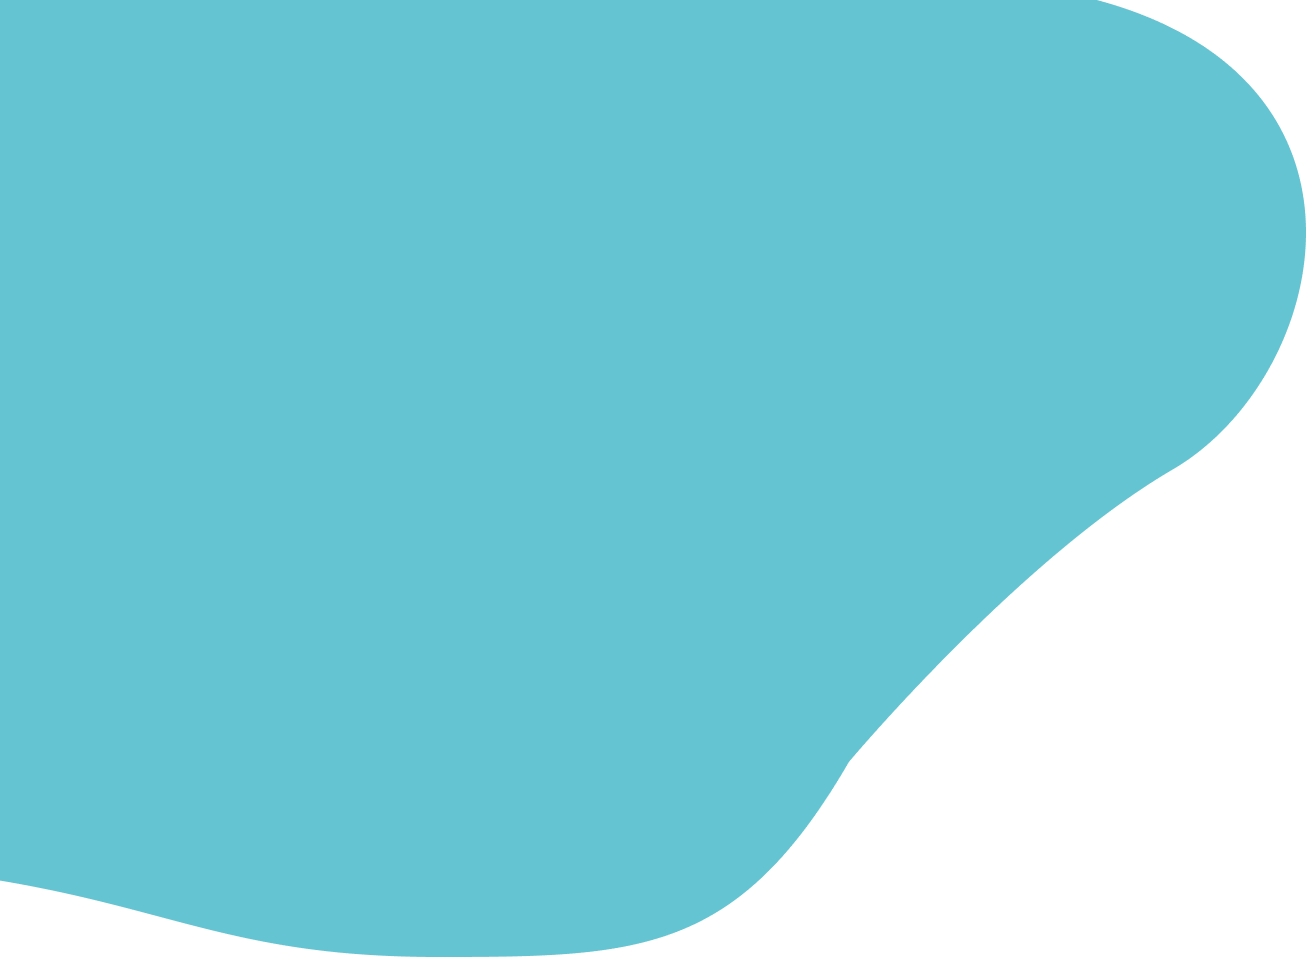
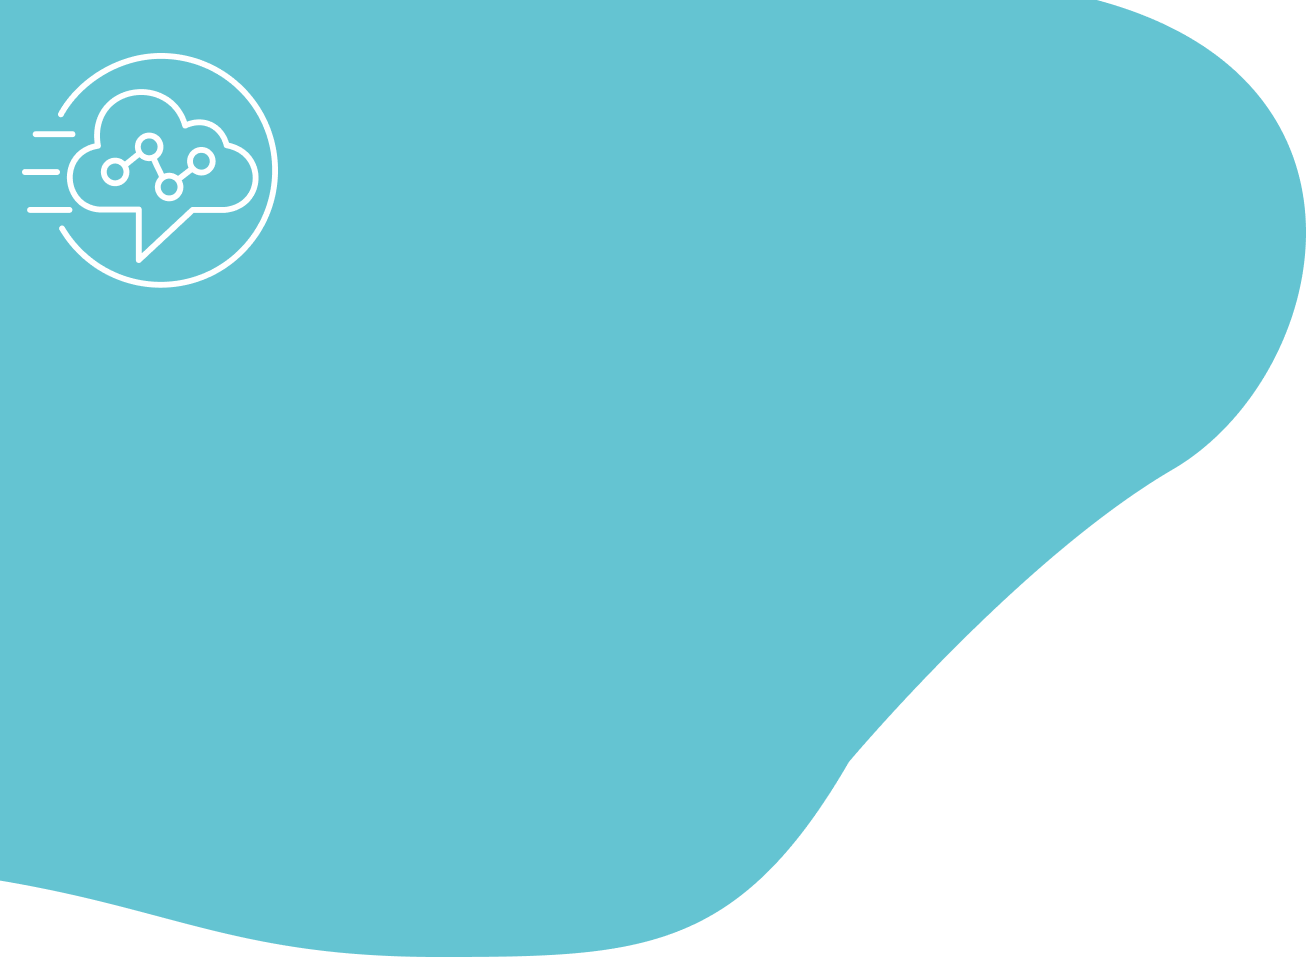
add page home

Changed region(s): [[0.0306, 0.0303, 0.2144, 0.303]]

diff --git a/src/pages/home.jsx b/src/pages/home.jsx
@@ -5,6 +5,37 @@ import { BodyContainer } from '../components/body/style';
 import { Label } from '../components/label/label';
 import { Footer } from '../components/footer/footer';
 import { SearchBar } from '../components/search-box/search-box';
+import { TitlePrinciple, SubTitle, BreakLine}  from '../components/fonts/fonts.style';
+
+import BookIcon from '../img/icons/bookIcon.png';
+import ComputerIcon from '../img/icons/computerIcon.png';
+import likeIcon from '../img/icons/likeIcon.png';
+import MedalhaIcon from '../img/icons/medalhaIcon.png';
+
+
+const contentLabel = [
+    {
+        titleMessage: "Compartilhe arquivos!",
+        subMessage: "Compartilhe todos os tipos de arquivos!",
+        iconUrl: BookIcon,
+    },
+    {
+        titleMessage: "Busque uma disciplina",
+        subMessage: "Faça busca inteligentes! Procure por inúmeros conteúdos oferecidos por alunos da USP.",
+        iconUrl: ComputerIcon,
+    },
+    {
+        titleMessage: "Ganhe Recompensas!",
+        subMessage: "Ganhe experiência ao compartilhar e acessar conteúdos, podendo subir de nível e ganhar recompensas!",
+        iconUrl: likeIcon,
+    },
+    {
+        titleMessage: "Avalie o conteúdo",
+        subMessage: "Avalie o conteúdo postado por outros alunos!",
+        iconUrl: MedalhaIcon,
+    }
+]
+
 
 export class Home extends React.Component {
     
@@ -13,8 +44,13 @@ export class Home extends React.Component {
             <>
                 <Header/>
                 <BodyContainer>
+                    <BreakLine numberLines={1}/>
+                    <TitlePrinciple>Conheça o USP share</TitlePrinciple>
+                    <TitlePrinciple>O melhor site para consulta de material da USP</TitlePrinciple>
+                    <BreakLine numberLines={2}/>
+                    <SubTitle>Faça uma busca pela disciplina que deseja</SubTitle>
                     <SearchBar />
-                    <Label />
+                    <Label labelContent={contentLabel}/>
                     <Footer/>
                 </BodyContainer>
             </>

diff --git a/src/components/label/label.style.jsx b/src/components/label/label.style.jsx
@@ -1,0 +1,58 @@
+import styled from 'styled-components';
+
+export const ContainerLabel = styled.div`
+    width: 76%;
+    height: 580px;
+
+    padding: 4% 12% 4% 12%;
+    display: flex;  
+    justify-content: space-between;
+    align-content: flex-start;
+    flex-wrap: wrap;
+    align-items: center;
+    margin: 0px 0px 40px 00px;
+
+    @media(max-width: 828px) {
+        height: 1300px;
+        justify-content: center;
+    }
+`;
+
+export const LabelDiv = styled.div`
+    width: 220px;
+    height: 280px;
+    margin: 10px 12px 10px 12px;
+    padding: 14px;
+
+    background: #FFFFFF;
+    box-shadow: 0px 10px 13px rgba(0, 0, 0, 0.2), 0px 20px 31px rgba(0, 0, 0, 0.14), 0px 8px 38px rgba(0, 0, 0, 0.12);
+    border-radius: 12px;
+`;
+
+export const LabelTitle = styled.span`
+    display: block;
+    font-family: Quicksand;
+    font-style: normal;
+    font-weight: bold;
+    
+    font-size: 24px;
+    line-height: 30px;
+    text-align: center;
+`;
+
+export const LabelSubMessage = styled.span`
+    display: block;
+    font-family: Roboto Condensed;
+    font-style: normal;
+    font-weight: normal;
+
+    font-size: 18px;
+    line-height: 21px;
+    text-align: center;
+`;
+
+export const LabelImage = styled.img`
+    display: block;
+    margin: 18px auto;
+    text-align: center;
+`;

diff --git a/src/components/label/label.jsx b/src/components/label/label.jsx
@@ -1,9 +1,12 @@
-import * as React from 'react';
+import React, { Fragment } from 'react';
 
 import { 
     LabelDiv,
+    LabelSubMessage,
+    LabelTitle,
+    LabelImage,
     ContainerLabel
-} from "./style";
+} from "./label.style";
 
 
 export class Label extends React.Component {
@@ -11,10 +14,15 @@ export class Label extends React.Component {
     render() {
         return (
             <ContainerLabel>
-                <LabelDiv/>
-                <LabelDiv/>
-                <LabelDiv/>
-                <LabelDiv/>
+                {this.props.labelContent.map((content, index) => 
+                    <Fragment key={index+content.titleMessage}>
+                        <LabelDiv>
+                            <LabelTitle>{content.titleMessage}</LabelTitle>
+                            <LabelImage src={content.iconUrl} alt={content+index}/>
+                            <LabelSubMessage>{content.subMessage}</LabelSubMessage>
+                        </LabelDiv>
+                    </Fragment>
+                )}
             </ContainerLabel>
         );
     };

diff --git a/src/components/header/header.style.jsx b/src/components/header/header.style.jsx
@@ -38,7 +38,10 @@ export const TextEntrar = styled.a`
     font-size: 18px;
     text-align: center;
     line-height: 21px;
+    
+    cursor: pointer;
     color: #FDAF2D;
+    
     &:hover{
         background: #E7E7E7;
     }
@@ -55,7 +58,10 @@ export const TextRegister = styled.a`
     font-size: 18px;
     line-height: 21px;
     text-align: center;
+    cursor: pointer;
+
     color: #FFFFFF;
+    
     &:hover{
         background: #E99100;
     }
@@ -72,7 +78,7 @@ export const ButtonHamburguerDiv = styled.div`
 
 export const HeaderSubDiv = styled.div`
     
-    max-height: ${ props => props.hide ? "60px" : "0px" };
+    max-height: ${ props => props.hide ? "0px" : "60px" };
     color: #FFFFFF;
     transition: max-height 1s ease-in-out;
     overflow:hidden;
@@ -92,8 +98,6 @@ export const LinkHeader = styled.a`
     font-weight: normal;
     font-size: 14px;
     line-height: 17px;
-    /* identical to box height */
-
     color: #1094AB;
 `;
 

diff --git a/src/components/fonts/fonts.style.jsx b/src/components/fonts/fonts.style.jsx
@@ -1,0 +1,29 @@
+import styled from 'styled-components';
+
+export const TitlePrinciple = styled.span`
+    display: block;
+    font-family: Quicksand;
+    font-style: normal;
+    font-weight: bold;
+    font-size: 36px;
+    line-height: 45px;
+    text-align: center;
+
+    color: #000000;
+`;
+
+export const SubTitle = styled.span`
+    display: block;
+    font-family: Quicksand;
+    font-style: normal;
+    font-weight: normal;
+    font-size: 36px;
+    line-height: 45px;
+    text-align: center;
+
+    color: #000000;
+`;
+
+export const BreakLine = styled.div`
+    height: ${ props => props.numberLines * 48 + "px"};
+`;

diff --git a/src/components/header/header.jsx b/src/components/header/header.jsx
@@ -13,7 +13,7 @@ import {
     ButtonHamburguerDiv,
     LinkHeader,
     LinkDiv
-} from "./style";
+} from "./header.style";
 
 export class Header extends React.Component {
 
@@ -34,7 +34,7 @@ export class Header extends React.Component {
                 <HeaderPrimaryDiv>
                     <ButtonHamburguerDiv>
                         <HamburgerMenu
-                            isOpen={this.state.hideButton}
+                            isOpen={!this.state.hideButton}
                             menuClicked={this.handleButtton}
                             width={24}
                             height={18}

diff --git a/src/components/body/style.jsx b/src/components/body/style.jsx
@@ -1,5 +1,7 @@
 import styled from 'styled-components';
 import BackGround from '../../img/background/background.png';
+import BackGroundSimple from '../../img/background/background.simple.png';
+
 
 export const BodyContainer = styled.body`
     width:100%;
@@ -12,4 +14,8 @@ export const BodyContainer = styled.body`
     background-repeat: no-repeat;
     box-shadow: inset  0px 10px 13px rgba(0, 0, 0, 0.2), 0px 20px 31px rgba(0, 0, 0, 0.14), 0px 8px 38px rgba(0, 0, 0, 0.12);;
 
+
+    @media(max-width: 1060px) {
+        background-image: url(${ () => BackGroundSimple });
+    }
 `;
